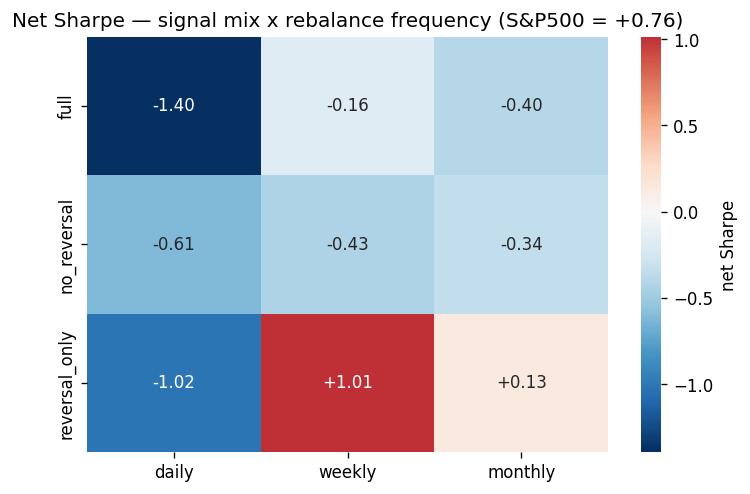
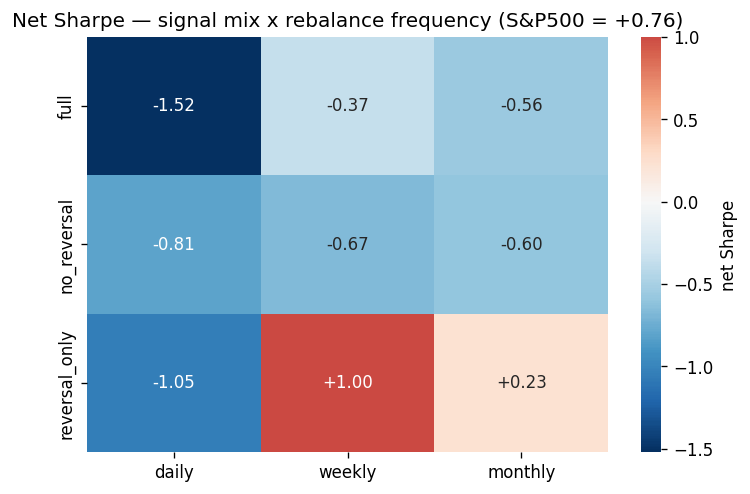
Clarifying the code

diff --git a/notebooks/turnover_experiment.py b/notebooks/turnover_experiment.py
@@ -1,4 +1,5 @@
 """
+
 Turnover / rebalancing-frequency experiment.
 
 v1 showed the gross edge is real but ~81%/yr transaction cost — from near-full
@@ -12,6 +13,7 @@ signals — turnover is a property of the signal inputs, not of the combiner, so
 the cost story is identical to XGBoost's. XGBoost can be layered back onto the
 winning cell afterwards. Same test window, cost model and decile construction
 as v1, so the (full, daily) cell reproduces v1's equal-weight result.
+
 """
 
 import sys
@@ -26,6 +28,8 @@ sys.path.insert(0, str(Path(__file__).resolve().parent.parent))
 import config
 from src.backtest import CostModel, held_weights, run_backtest, performance_metrics
 
+
+# Set Global Variable
 SIGNALS = {
     "reversal": ("log_reversal_1d", -1.0),
     "lowvol":   ("vol_63d", -1.0),
@@ -40,7 +44,10 @@ FREQS = {"daily": 1, "weekly": 5, "monthly": 21}
 VAL_END = pd.Timestamp(config.VAL_END)
 
 
-def main() -> None:
+def main(
+) -> None:
+    
+    # Get data
     raw = [c for c, _ in SIGNALS.values()]
     df = pd.read_parquet(config.FEATURES_PATH_CLEAN,
                          columns=["date", "PERMNO", "ret"] + raw)
@@ -50,19 +57,24 @@ def main() -> None:
         df[name] = sign * df[col].astype("float64")
     df = df.dropna(subset=list(SIGNALS) + ["ret"])
     df = df[df["date"] > VAL_END]                       # test window, as in v1
+    
+    # Display date range
     print(f"test window: {df['date'].min().date()} -> {df['date'].max().date()} "
           f"({df['date'].nunique()} days)")
 
+    # Get returns and initialize cost model
     df = df.set_index(["date", "PERMNO"]).sort_index()
     returns = df["ret"]
     dates = returns.index.get_level_values("date").unique().sort_values()
     cost = CostModel(trading_cost=0.001, borrow_cost_annual=0.01)
 
+    # Get benchmark data (SP500)
     gspc = pd.read_parquet(config.GSPC_PATH_CLEAN)
     gspc["date"] = pd.to_datetime(gspc["date"])
     spx = gspc.set_index("date")["sprtrn"].reindex(dates).fillna(0.0)
     spx_sharpe = performance_metrics(spx)["sharpe"]
 
+    # Backtest loop
     net, gross, anncost = {}, {}, {}
     for mix_name, cols in MIXES.items():
         signal = df[cols].mean(axis=1)
@@ -73,19 +85,25 @@ def main() -> None:
             gross[(mix_name, freq_name)] = performance_metrics(bt["gross_return"])["sharpe"]
             anncost[(mix_name, freq_name)] = bt["cost"].mean() * 252
 
-    def grid(d: dict) -> pd.DataFrame:
+    def grid(
+        d: dict
+    ) -> pd.DataFrame:
+        
         return pd.DataFrame([[d[(m, f)] for f in FREQS] for m in MIXES],
                             index=list(MIXES), columns=list(FREQS))
 
+
+    # Display Results
     net_g, gross_g, cost_g = grid(net), grid(gross), grid(anncost)
     print(f"\nS&P500 reference Sharpe: {spx_sharpe:+.2f}\n")
-    print("=== NET Sharpe (net of costs) ===")
+    print(" NET Sharpe (net of costs) ")
     print(net_g.to_string(float_format=lambda x: f"{x:+.2f}"))
-    print("\n=== GROSS Sharpe ===")
+    print("\n GROSS Sharpe ")
     print(gross_g.to_string(float_format=lambda x: f"{x:+.2f}"))
-    print("\n=== Annualised transaction cost ===")
+    print("\n Annualised transaction cost ")
     print(cost_g.to_string(float_format=lambda x: f"{x:.1%}"))
 
+    # Create and save graph
     fig, ax = plt.subplots(figsize=(7, 4.5))
     sns.heatmap(net_g, annot=True, fmt="+.2f", cmap="RdBu_r", center=0,
                 ax=ax, cbar_kws={"label": "net Sharpe"})
@@ -98,3 +116,35 @@ def main() -> None:
 
 if __name__ == "__main__":
     main()
+
+
+
+"""
+
+Commentary on "turnover_experiment.png"
+
+We observe that reversal achieve an optimal net Sharpe for weekly rebalance.
+
+
+
+S&P500 reference Sharpe: +0.76
+
+ NET Sharpe (net of costs) 
+               daily  weekly  monthly
+full           -1.52   -0.37    -0.56
+no_reversal    -0.81   -0.67    -0.60
+reversal_only  -1.05   +1.00    +0.23
+
+ GROSS Sharpe 
+               daily  weekly  monthly
+full           +0.71   +0.16    -0.39
+no_reversal    -0.65   -0.58    -0.53
+reversal_only  +4.01   +2.12    +0.53
+
+ Annualised transaction cost 
+               daily  weekly  monthly
+full           62.9%   13.3%     4.1%
+no_reversal     6.2%    3.4%     2.2%
+reversal_only  84.8%   17.8%     5.0%
+
+"""

diff --git a/notebooks/signal_correlation.py b/notebooks/signal_correlation.py
@@ -1,13 +1,15 @@
 """
+
 Cross-sectional correlation between the stock-level signals.
 
 For each date we compute the Pearson correlation matrix of the signal values
 across stocks, then average over all dates. The signals are already
 cross-sectionally rank-normalised, so this is effectively an average rank
 correlation. It answers: how much *distinct* information do the 14 signals
-carry? Two highly correlated signals are redundant — the meta-model would see
+carry? Two highly correlated signals are redundant ; the meta-model would see
 fewer effective inputs than it appears, and the ensemble gains nothing from
 the pair.
+
 """
 
 import sys
@@ -23,6 +25,8 @@ sys.path.insert(0, str(Path(__file__).resolve().parent))
 import config
 from ic_analysis import FEATURE_COLS, DATE
 
+
+# Set Global Variable
 MIN_STOCKS = 100 
 
 # Display order grouped by construction family.
@@ -35,29 +39,44 @@ ORDER = [
 ]
 
 
-def avg_cross_sectional_corr(df: pd.DataFrame) -> pd.DataFrame:
-    """Average over dates of the per-date cross-sectional correlation matrix."""
+def avg_cross_sectional_corr(
+    df: pd.DataFrame
+) -> pd.DataFrame:
+    
+    """
+    
+    Average over dates of the per-date cross-sectional correlation matrix.
+    
+    """
+    
     sizes = df.groupby(DATE).size()
     keep = sizes[sizes >= MIN_STOCKS].index
     df = df[df[DATE].isin(keep)]
     corr_by_date = df.groupby(DATE)[FEATURE_COLS].corr()
     avg = corr_by_date.groupby(level=1).mean()
+    
     return avg.loc[ORDER, ORDER]
 
 
-def main() -> None:
+def main(
+) -> None:
+    
+    # Get the data
     df = pd.read_parquet(config.FEATURES_PATH_CLEAN, columns=[DATE] + FEATURE_COLS)
     df[DATE] = pd.to_datetime(df[DATE])
     print(f"Loaded {len(df):,} rows | {df[DATE].nunique():,} dates")
 
+    # Get and display the average cross-sectional correlation
     corr = avg_cross_sectional_corr(df)
-    print(f"\n=== Average cross-sectional correlation (dates with >= {MIN_STOCKS} stocks) ===")
+    print(f"\n Average cross-sectional correlation (dates with >= {MIN_STOCKS} stocks) ")
     print(corr.to_string(float_format=lambda x: f"{x:+.2f}"))
 
+    # Get and display high correlation
     off = corr.where(~np.eye(len(corr), dtype=bool))
-    print("\n=== Max |correlation| with any other signal (redundancy flag) ===")
+    print("\n Max |correlation| with any other signal (redundancy flag) ")
     print(off.abs().max().sort_values(ascending=False).to_string(float_format=lambda x: f"{x:.2f}"))
 
+    # Create and save graph
     fig, ax = plt.subplots(figsize=(10, 8.5))
     sns.heatmap(corr, annot=True, fmt="+.2f", cmap="RdBu_r", center=0,
                 vmin=-1, vmax=1, square=True, cbar_kws={"shrink": 0.8},
@@ -70,3 +89,23 @@ def main() -> None:
 
 if __name__ == "__main__":
     main()
+    
+    
+    
+"""
+
+Commentary on "signal_correlation_matrix.png"
+
+
+The graph shows that the volatility weighted momentum are not bringing extra information as their correlation
+with the momentum itself is above 0.90. We can drop thos features.
+
+Volatilies on different rolling windows are also incredibly intercorrelated and it may only be useful to use one. The
+window size may remain an hyperparameters to finetune later.
+
+"""
+
+    
+    
+    
+    

diff --git a/notebooks/regime_validation.py b/notebooks/regime_validation.py
@@ -207,6 +207,13 @@ if __name__ == "__main__":
 
 Commentary 
 
+Part 2 shows that the VIX is a very strong predictor of future realized volatility (21 days).
+Part 1 and 3 shows that the VIX and the Chen-Zimmerman dataset seem to have no prediction power
+on the market returns (at least not linear).
+Part 4 shows an interesting results : best sharpe ratio of the market is reached on Low Vix regime. 
+
+Without going to deep in the analysis, those results shows us that using the VIX as an estimator for 
+the volatility/indicator of volatility is a strong tool that we could add to our analysis.
 
 
 Regime layer validation 

diff --git a/notebooks/ic_analysis.py b/notebooks/ic_analysis.py
@@ -127,7 +127,6 @@ if __name__ == "__main__":
 Commentary on "signal_cumulative_ic.png"
 
 We observe only 4 components to show positive IC which are all momentum on different window size.
-However, as we will see it later, the different momentum features are all strongly intercorrelated.
 Using extra data set like Compustat could expand the effective signal space by introducing 
 orthogonal features.
 
